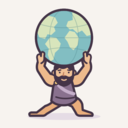
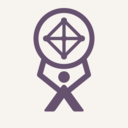
design: simplify Atlas into a geometric graph mark

Changed region(s): [[0.2188, 0.0625, 0.75, 0.9375]]

diff --git a/README.md b/README.md
@@ -1,6 +1,6 @@
 # Atlas
 
-<img src="assets/atlas.png" alt="Atlas, a friendly cartoon giant holding the world" width="144" height="144" align="right">
+<img src="assets/atlas.png" alt="A geometric Atlas figure supporting a globe of connected nodes" width="144" height="144" align="right">
 
 [![CI](https://github.com/LeonFelipeCordero/atlas/actions/workflows/ci.yml/badge.svg?branch=main)](https://github.com/LeonFelipeCordero/atlas/actions/workflows/ci.yml)
 [![License: MIT](https://img.shields.io/badge/License-MIT-89718e.svg)](LICENSE)
